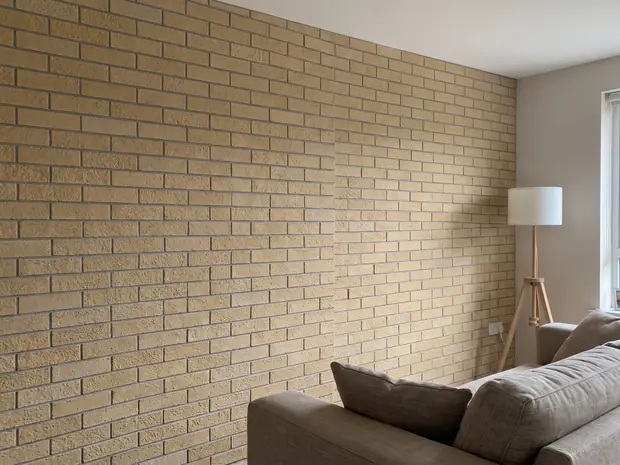
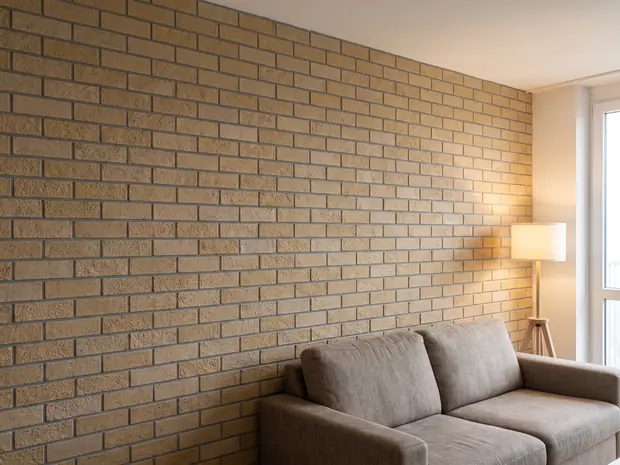
Акцентная стена: убран стык, кадр пересобран целым
Прежний кадр был браком: примерно на 55 % ширины проходил вертикальный стык —
слева кладка крупнее, справа мельче, будто склеены две картинки. Заметно глазом,
и на сайте про облицовку такой кадр бьёт по доверию сильнее, чем отсутствие фото.

Перегенерировано с явным запретом: ряды идут непрерывно от края до края, без
вертикальных стыков и смены масштаба в середине. Сделано два варианта, выбран тот,
где кладка однородная по цвету — второй ушёл в пёстрый микс, а карточка называется
«Акцентные стены», а не «Микс».

Метка версии картинки обновлена: без неё браузер отдал бы бракованный кадр из кэша.

Приёмка: дефектов нет, вес 1447 КБ.

Claude-Session: https://claude.ai/code/session_01TTubhEXpVZo7hKDADLjCcR

diff --git a/index.html b/index.html
@@ -667,7 +667,7 @@
         <div
              class="apply-card group relative flex flex-col h-full rounded-2xl overflow-hidden bg-stone-900 shadow-lg shadow-stone-950/40 transition-shadow duration-300 hover:shadow-xl hover:shadow-stone-950/50">
           <div class="relative aspect-[4/3] overflow-hidden">
-            <img loading="lazy" src="img/apply-living.webp?v=68fb9407" alt="Акцентная стена в интерьере из гибкого кирпича" class="w-full h-full object-cover transition-transform duration-500 group-hover:scale-105" />
+            <img loading="lazy" src="img/apply-living.webp?v=fb330382" alt="Акцентная стена в интерьере из гибкого кирпича" class="w-full h-full object-cover transition-transform duration-500 group-hover:scale-105" />
             <span class="absolute bottom-2 right-2 z-10 text-[10px] tracking-wide px-2 py-0.5 rounded bg-stone-950/70 text-stone-300">визуализация</span>
             <span class="absolute top-3 left-3 z-10 text-[11px] font-semibold uppercase tracking-wider px-2.5 py-1 rounded-full bg-stone-950/75 text-stone-200 backdrop-blur-sm">Внутри</span>
           </div>
